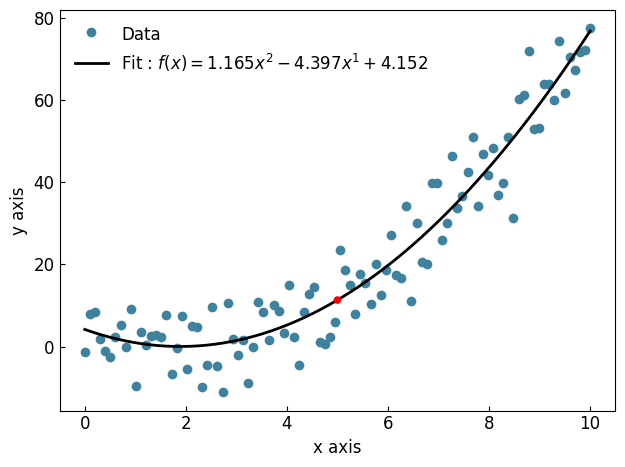
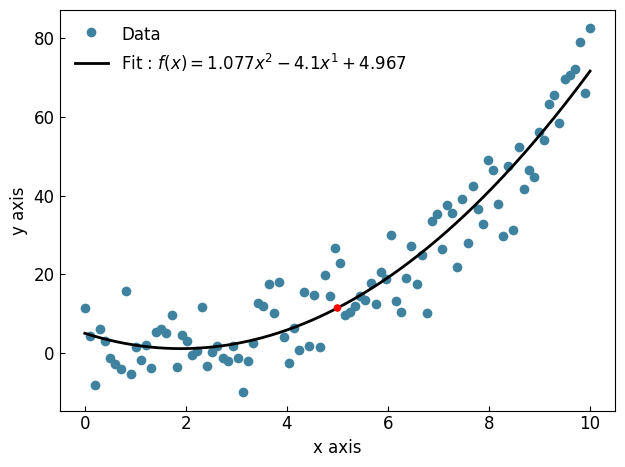
Completed handbook section on scatter and fits

diff --git a/docs/handbook/scatter_fitting.rst b/docs/handbook/scatter_fitting.rst
@@ -123,6 +123,13 @@ There are a number of curve fit objects that can be used to fit data. The most v
     fig.add_element(scatter, fit, predicted_point)
     fig.display()
 
+.. code-block:: none
+    
+    coefficient of x^0: 4.9668661552059294
+    coefficient of x^1: -4.099977593163963
+    coefficient of x^2: 1.0770659002222067
+    Value of fit at x = 5 is y = 11.39362569494128
+
 .. image:: images/scatter_plot_polynomial_fit.png
 
 Currently, the following fit objects are available:
@@ -139,21 +146,69 @@ Here is an example of fitting a sine function to some data:
 
 .. code-block:: python
 
-    # TODO: Add example of fitting a sine function
+    import graphinglib as gl
+    import numpy as np
 
-    # TODO: Add image of the resulting plot
+    # Create noisy sine wave data
+    x = np.linspace(0, 10, 100)
+    y = 3 * np.sin(2 * x + 3) + 5 + np.random.normal(0, 0.5, 100)
 
-image:: images/scatter_plot_sine_fit.png
+    # Create scatter plot and fit with guesses (amplitude, frequency, phase, offset)
+    # Frequency is the most important parameter to get close to the actual value
+    scatter = gl.Scatter(x, y, label="Noisy sine")
+    fit = gl.FitFromSine(scatter, label="Fit", guesses=(1, 2.2, 1, 1))
+    print(f"Amplitude: {fit.amplitude:.3f}")
+    print(f"Frequency: {fit.frequency_rad:.3f}")
+    print(f"Phase: {fit.phase:.3f}")
+    print(f"Vertical shift: {fit.vertical_shift:.3f}")
 
-And here is an example of fitting a specific, user-defined function to some data:
+    fig = gl.Figure(y_lim=(0.5, 10.7))
+    fig.add_element(scatter, fit)
+    fig.display()
+
+.. code-block:: none
+
+    Amplitude: 2.943
+    Frequency: 2.004
+    Phase: 2.943
+    Vertical shift: 5.102
+
+.. image:: images/scatter_plot_sine_fit.png
+
+And here is an example of fitting a specific, user-defined function to some data. In this example, a laser of wavelength 532 nm is shone though a single slit of unknown width. The resulting diffraction pattern is recorded on a screen. You can use the Fraunhofer single-slit diffraction equation to fit the data and determine the width of the slit:
 
 .. code-block:: python
 
-    # TODO: Add example of fitting a user-defined function
+    import graphinglib as gl
+    import numpy as np
 
-    # TODO: Add image of the resulting plot
+    def single_slit(theta, a):
+        wavelength = 500e-9
+        beta = np.pi * a * np.sin(theta) / wavelength
+        return (np.sinc(beta / np.pi)) ** 2
 
-image:: images/scatter_plot_user_defined_fit.png
+    # Our fictional experimental data (with noise and slit width of 3.75 microns)
+    theta = np.linspace(-0.3, 0.3, 500)
+    a = 3.75e-6
+    I_exp = single_slit(theta, a) + np.random.normal(0, 0.02, 500)
+
+    # Create scatter and fit from single_slit function
+    scatter = gl.Curve(theta, I_exp, label="Experimental Data")
+    fit = gl.FitFromFunction(single_slit, scatter, label="Fit", guesses=(1e-6))
+
+    # Fitted parameters are stored in the Fit object
+    print(f"Slit width: {fit.parameters[0] * 1e6:.3f} microns")
+
+
+    fig = gl.Figure(x_label="Angle (rad)", y_label="Intensity (a.u.)")
+    fig.add_element(scatter, fit)
+    fig.display()
+
+.. code-block:: none
+
+    Slit width: 3.763 microns
+
+.. image:: images/single_slit.png
 
 
 
